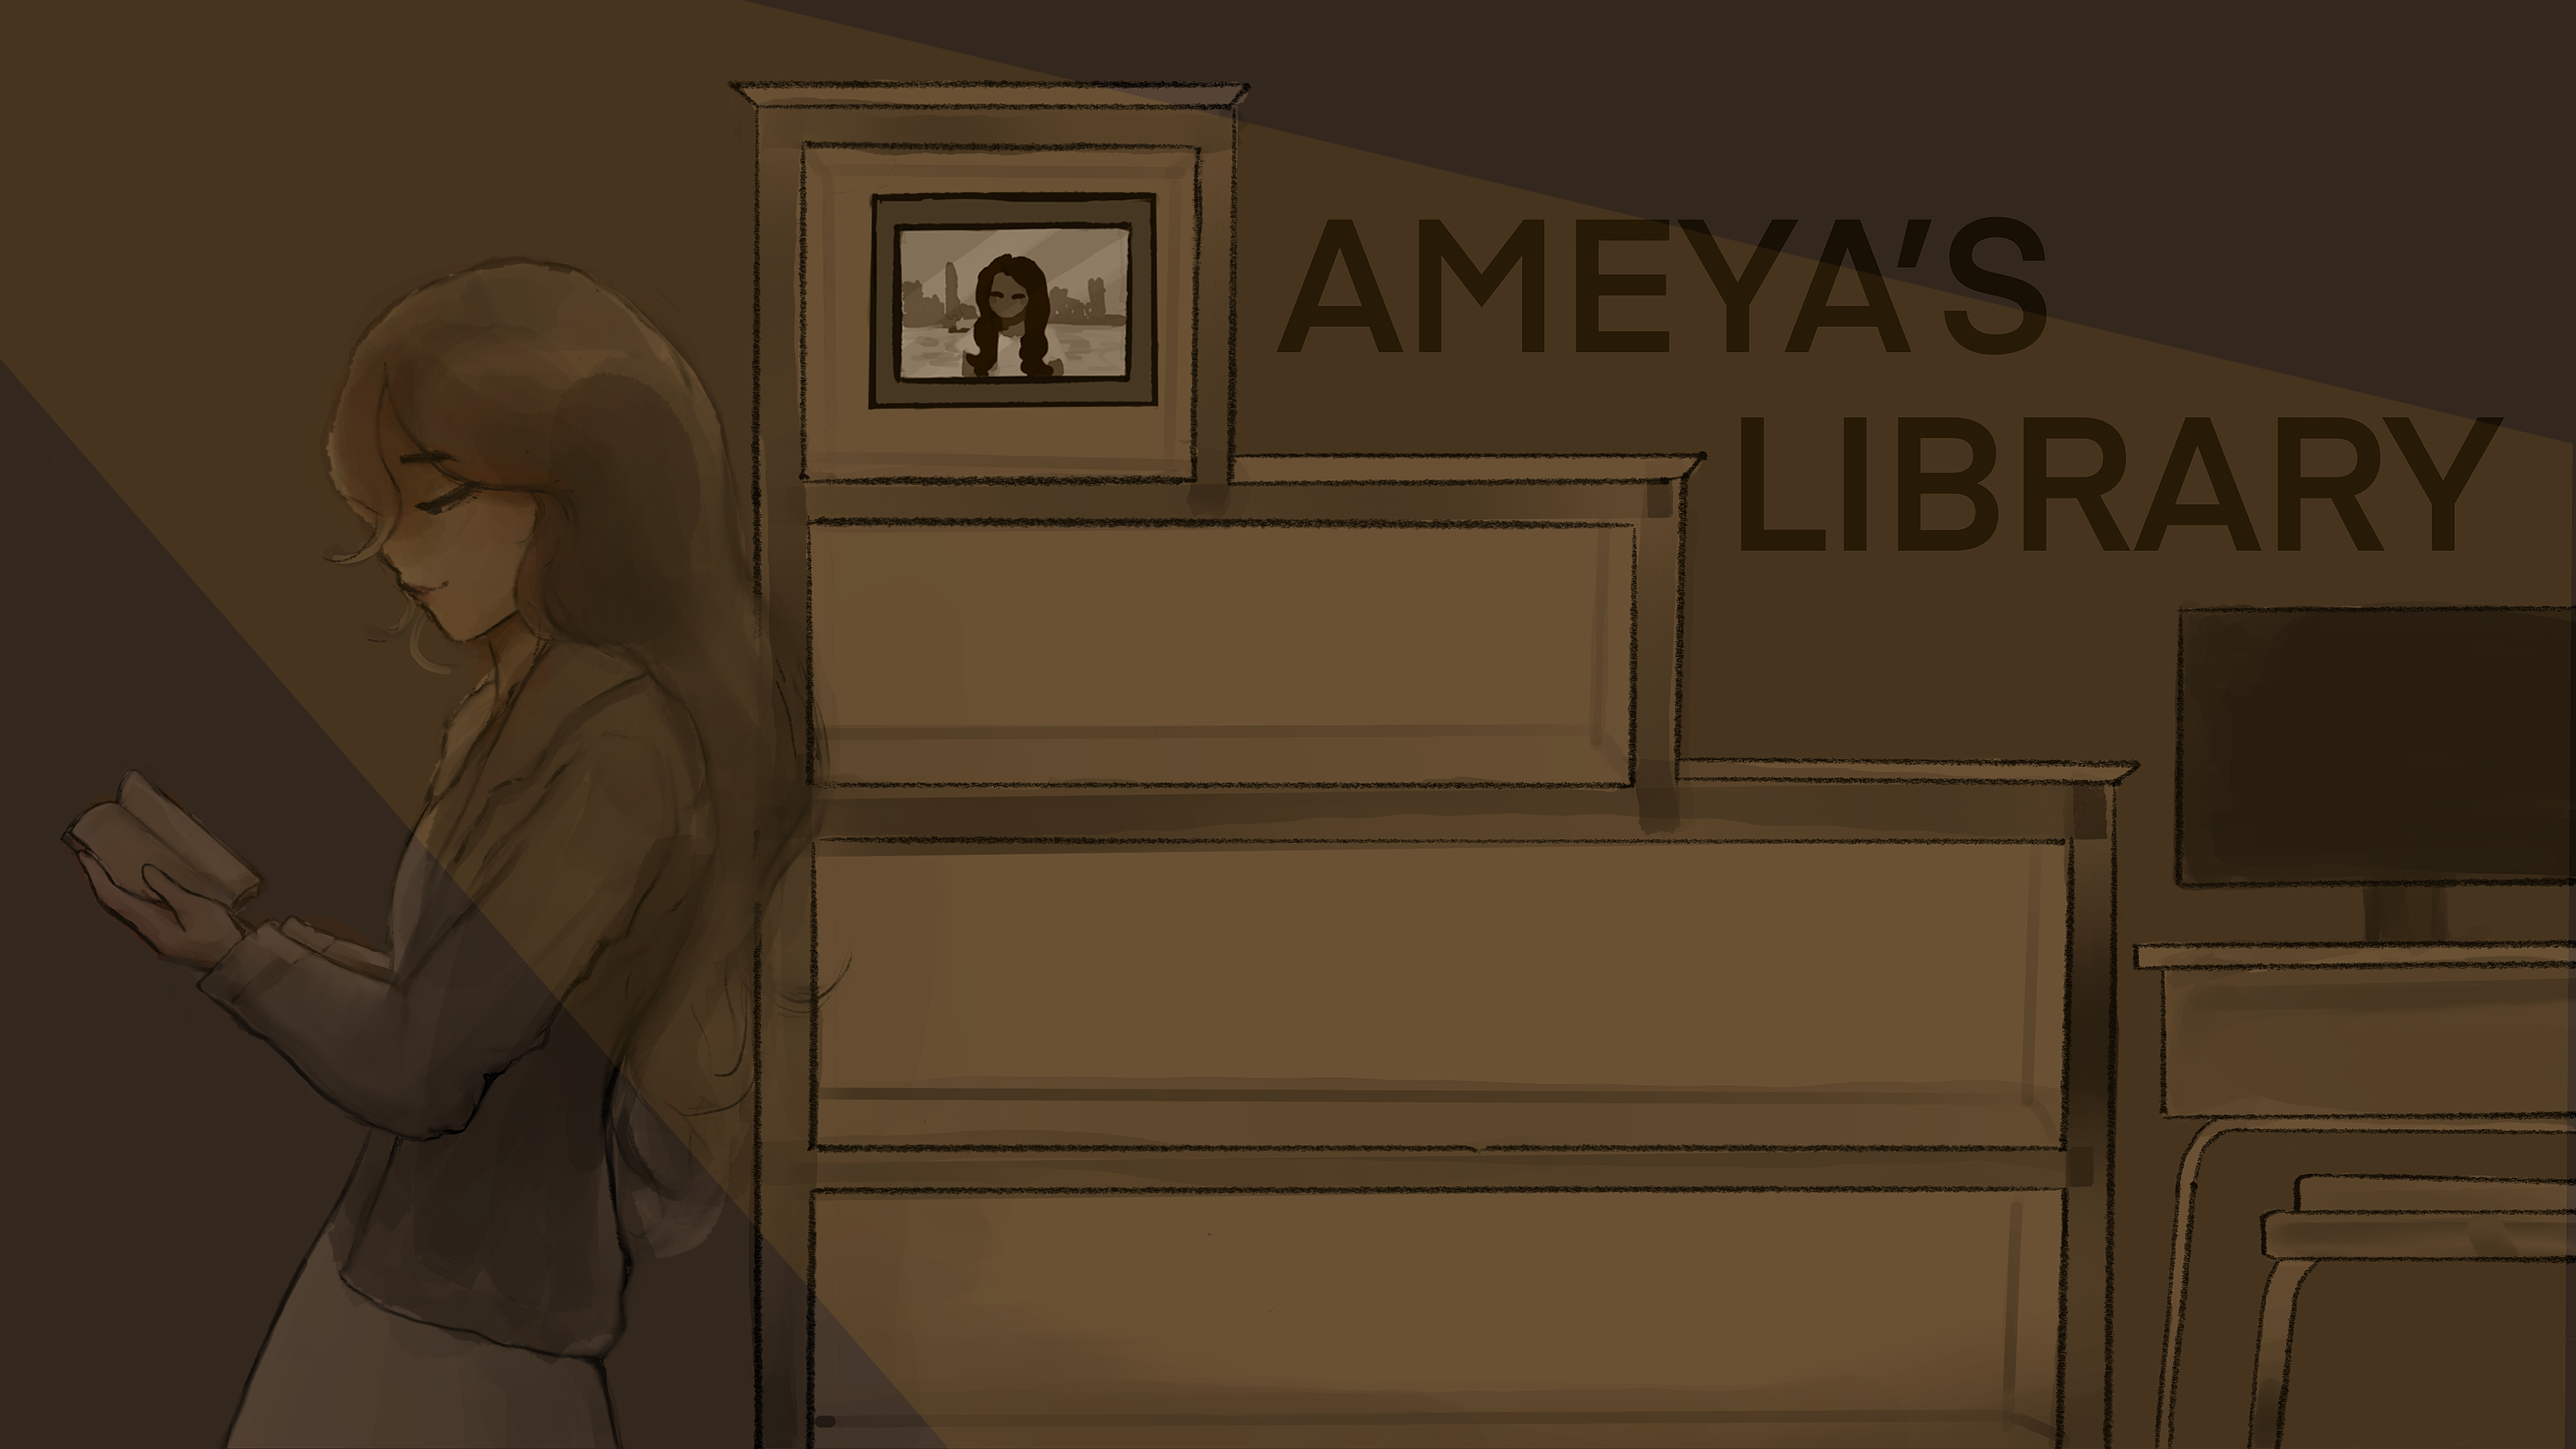
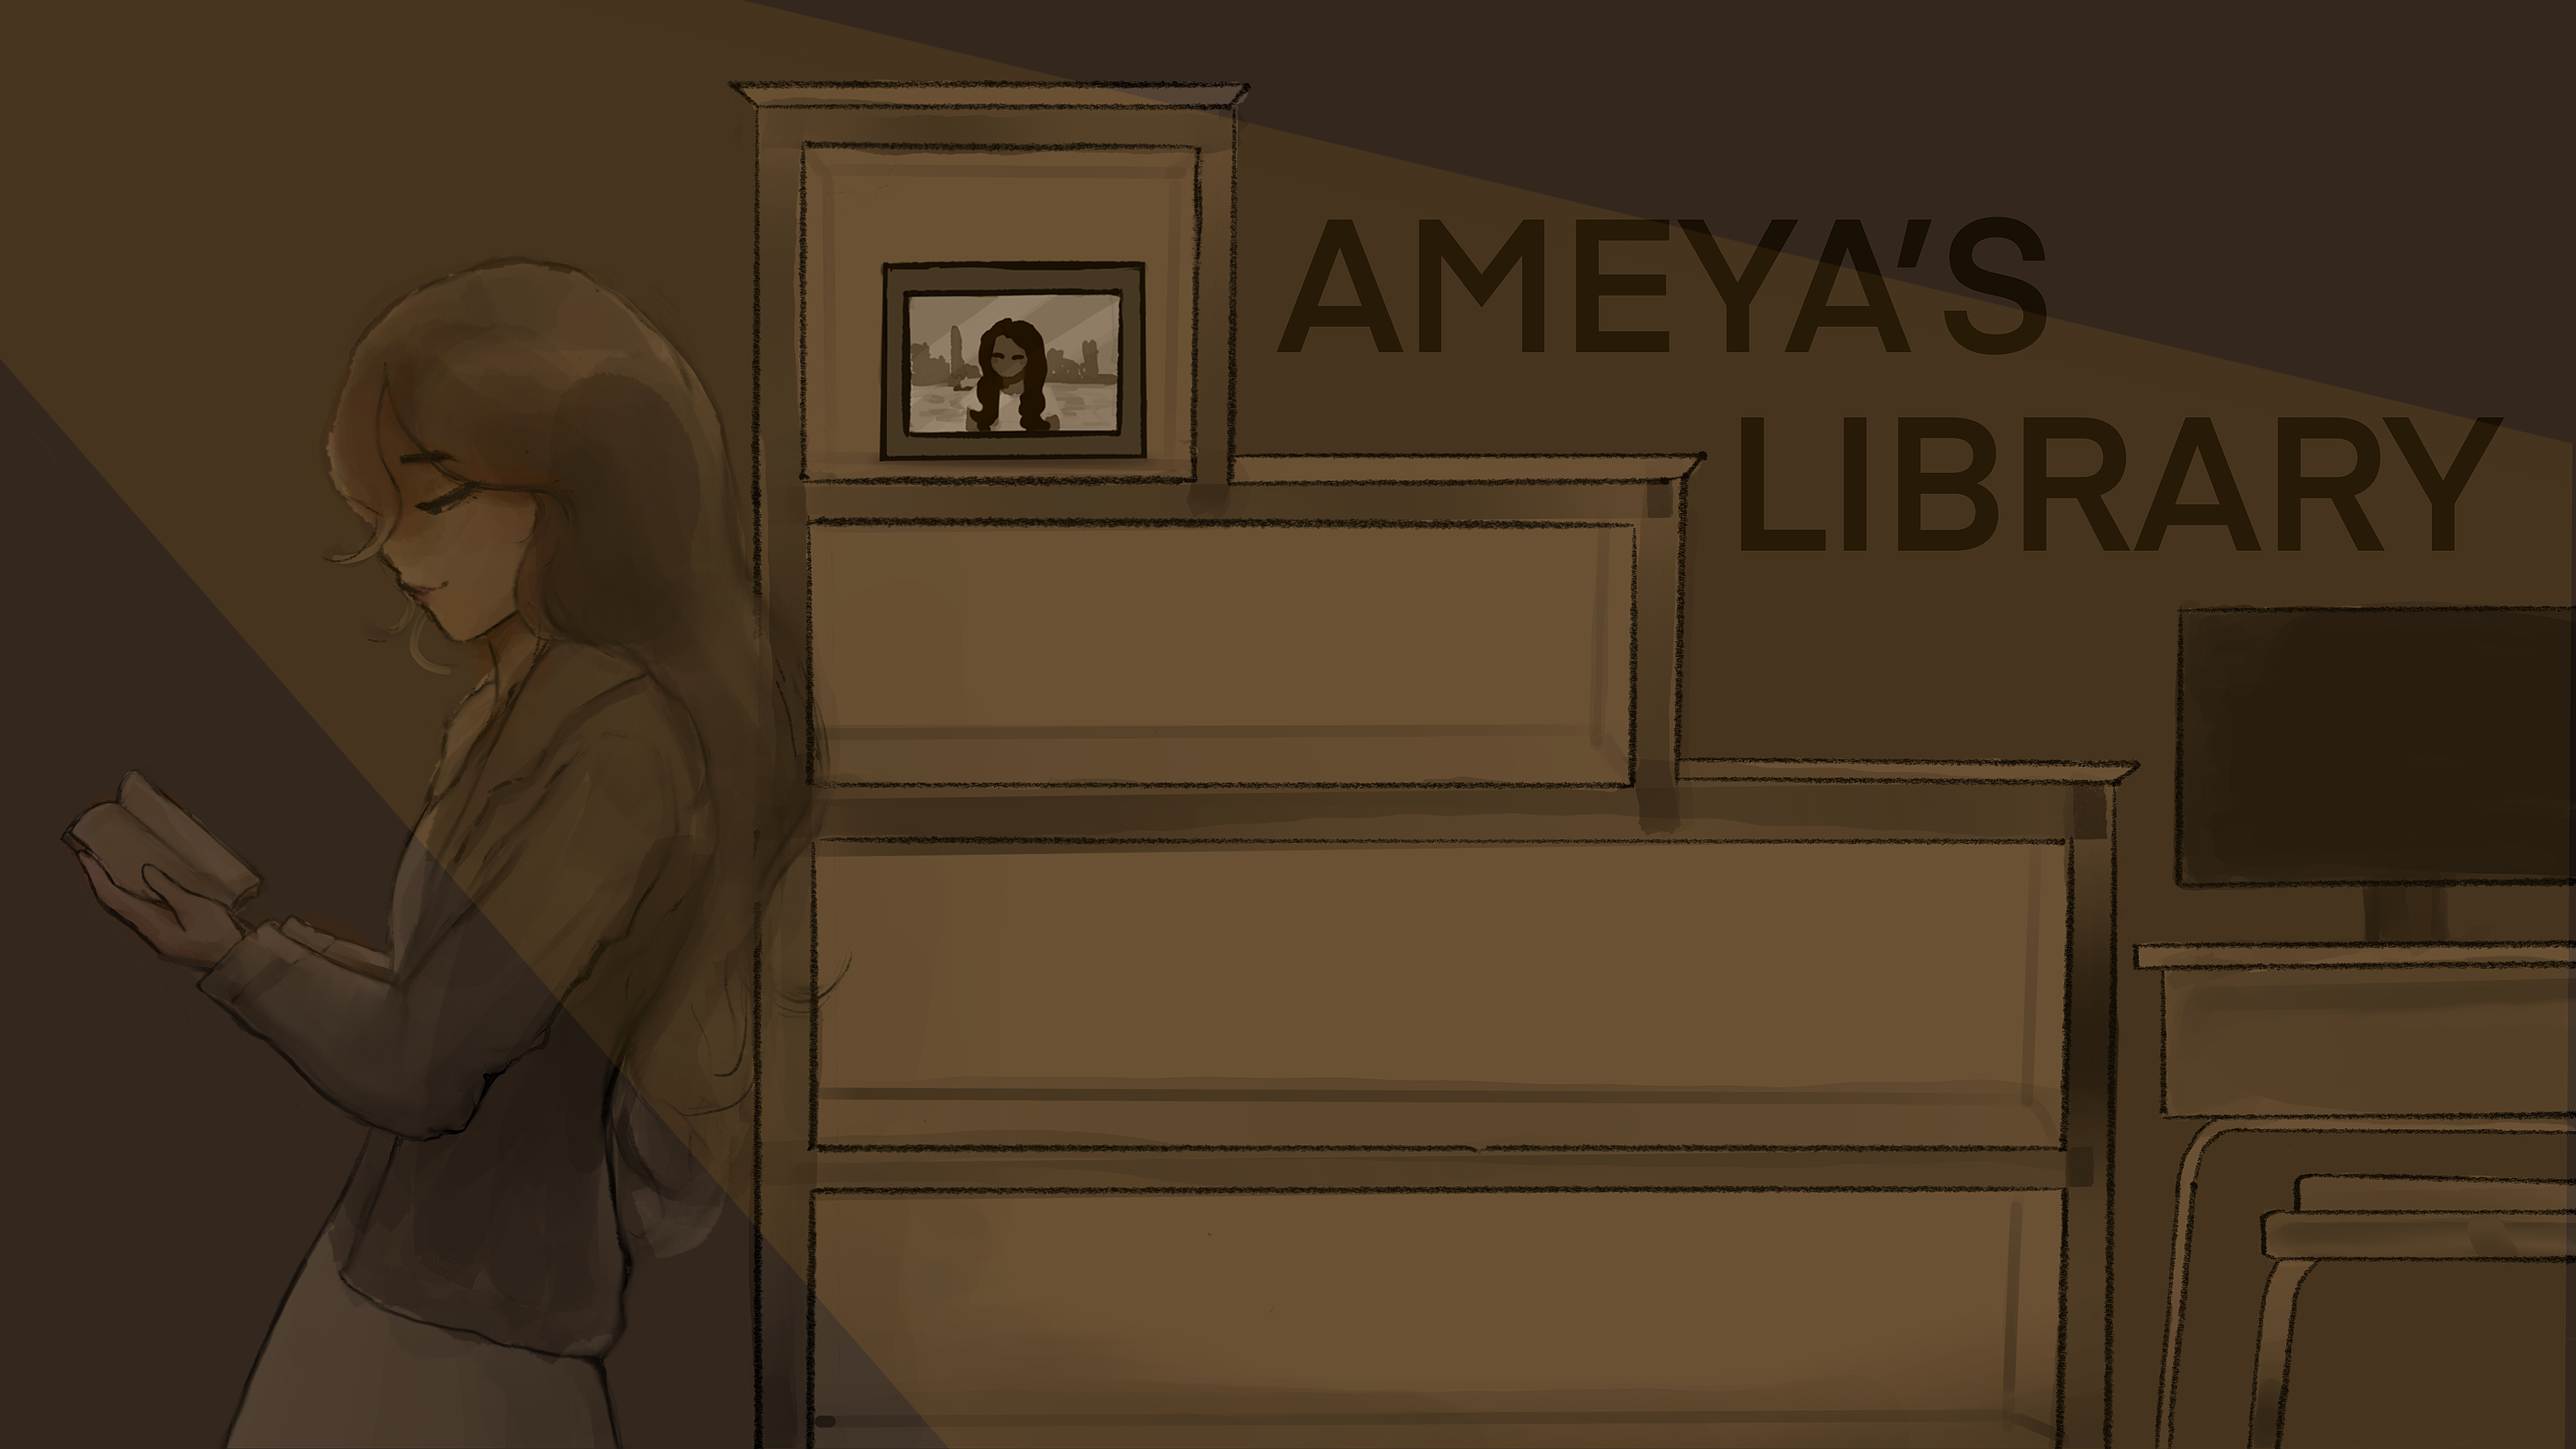
Painting: photo frame stands on the cubby floor with a contact shadow; hotspot refitted

Changed region(s): [[0.3125, 0.1241, 0.4688, 0.3412]]

diff --git a/config.js b/config.js
@@ -72,7 +72,7 @@ const SECTIONS = [
     id: "fine-art",
     label: "Fine art",
     object: "framed picture in the top cubby of the shelf",
-    hotspot: { x: 33.4, y: 12.8, w: 11.8, h: 15.7 },
+    hotspot: { x: 33.9, y: 17.6, w: 10.9, h: 14.4 },
     shape: "rect",
     labelPosition: "right",
     theme: "gallery",
